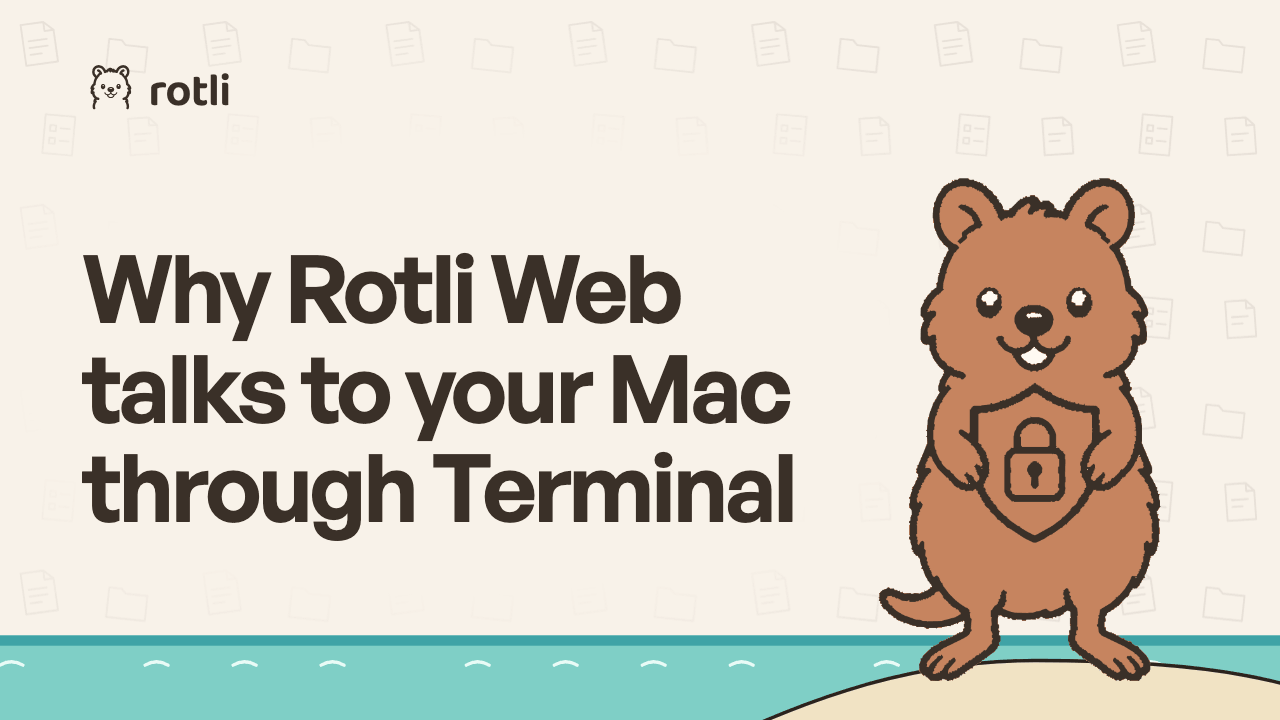
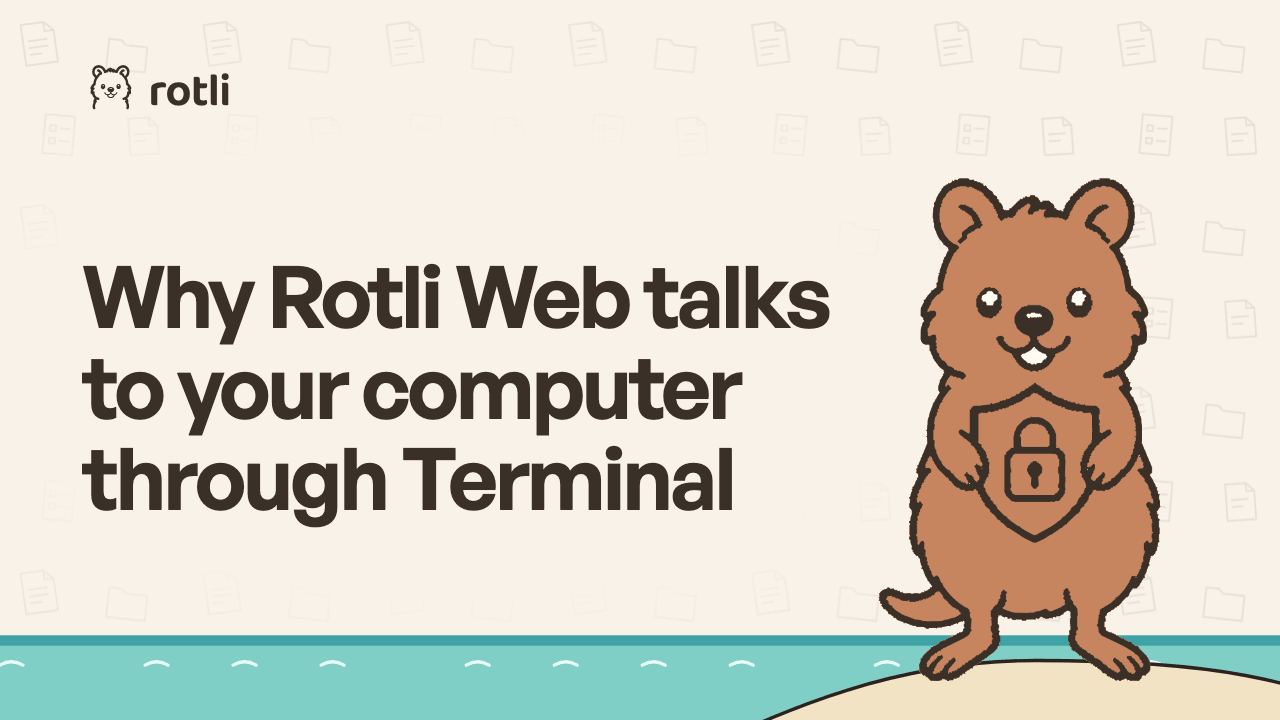
Lead rotli.co with free and Markdown, not the Mac; Windows and Linux are coming soon
The owner read the hero as a Mac notes app. The page now says what rotli is
(a free workspace built on plain Markdown files, notes first, with Docs and
Sheets, chat, and boards in the same folder) and what it costs before it says
where it runs. Windows and Linux move from "Planned" to "Coming soon" on his
call today, through PLATFORMS so every page says it the same way.

Docs and Sheets ship as beta next release, so their status is one constant
(DOCS_AND_SHEETS) rather than "Beta" typed by hand; the Features formats,
FAQ, and llms.txt take it too, and the dev-only experiments list stops
calling them experiments. The before-and-after now says plainly that the
Librarian only fills in the frontmatter and never changes what you wrote.
The ways-in section says "your computer", and the Helper post's title
follows. The home link card and banners are re-rendered for the new line.

Changed region(s): [[0.0625, 0.3361, 0.6562, 0.7639]]

diff --git a/site/src/agents.ts b/site/src/agents.ts
@@ -5,12 +5,11 @@
 // site/Caddyfile answers `Accept: text/markdown` with these twins, and the
 // build (astro.config.mjs) fails if an llms.txt link points at a missing page.
 import { questions } from "./faq";
-import { DOWNLOAD_URL, GITHUB_URL, LICENSE_URL, site } from "./site";
+import { DOCS_AND_SHEETS, DOWNLOAD_URL, GITHUB_URL, LICENSE_URL, PLATFORMS, site } from "./site";
 import { slugOf, type Writing } from "./writing";
 
 const NAME = "rotli";
-const SUMMARY =
-  "rotli is a private workspace for your notes, on the Mac first, with Windows and Linux apps planned. Write however you think, in plain Markdown files you own, with no account. The Librarian files, tags, and links them in the background, using AI on your own computer or the AI tools you already use, and never rewrites your words.";
+const SUMMARY = `rotli is a free workspace built on plain Markdown files you own, with no account. Notes come first; Docs and Sheets (${DOCS_AND_SHEETS.inline}), chat, and Excalidraw boards work from the same folder. The Librarian files, tags, and links notes in the background, using AI on your own computer or the AI tools you already use, and never rewrites your words. ${PLATFORMS.availability}`;
 
 /**
  * AI crawlers named in robots.txt. Each gets its own group so the policy is
@@ -82,8 +81,8 @@ export function llmsText(writing: { resources: Writing[]; posts: Writing[] }): s
     "rotli charges nothing for AI and sells no AI plan: it uses a model on your Mac or the AI tools you already pay for.",
     "No analytics, ads, or crash uploads.",
     site.webAppEnabled
-      ? "Platforms: the Mac app, and Rotli Web in the browser. Chrome, Edge, and Arc open your folder directly; Firefox, Zen, and Brave use Rotli Helper. Safari and phones are not supported yet. Native Windows and Linux apps are planned."
-      : "Platforms: the Mac app. Native Windows and Linux apps are planned.",
+      ? "Platforms: the Mac app, and Rotli Web in the browser. Chrome, Edge, and Arc open your folder directly; Firefox, Zen, and Brave use Rotli Helper. Safari and phones are not supported yet. Native Windows and Linux apps are coming soon."
+      : "Platforms: the Mac app. Native Windows and Linux apps are coming soon.",
   ];
   const lines = [`# ${NAME}`, "", `> ${SUMMARY}`, "", ...facts.map((fact) => `- ${fact}`)];
   if (site.showsFullSite) {
@@ -94,7 +93,7 @@ export function llmsText(writing: { resources: Writing[]; posts: Writing[] }): s
       link(
         "Features",
         "/features/",
-        "the editor, tasks, links, chat, documents and boards, the Librarian, and themes",
+        `the editor, tasks, links, chat, Docs and Sheets (${DOCS_AND_SHEETS.inline}), boards, the Librarian, and themes`,
       ),
       link("Privacy", "/privacy/", "what connects to the internet, what AI can see, and why"),
       link(

diff --git a/site/src/site.ts b/site/src/site.ts
@@ -33,7 +33,7 @@ export const RELEASES_URL = 'https://github.com/SethMed7/rotli-releases/releases
 // The newest notarized DMG, downloaded directly. scripts/release.sh publishes a
 // stable-named copy (Rotli.dmg) on every release, so this never needs editing.
 export const DOWNLOAD_URL = `${RELEASES_URL}/download/Rotli.dmg`;
-/** Where the hero's and closing card's "Download for Mac" buttons go: the
+/** Where the hero's "Download for Mac" button goes: the
  * newest Mac DMG, fetched directly. The header's Download button always opens
  * /download/, which picks by the visitor's system (SiteHeader.astro). */
 export const DOWNLOAD_HREF = DOWNLOAD_URL;
@@ -194,17 +194,32 @@ export const site = {
 } as const;
 
 /**
- * Where rotli runs, said one way everywhere (the owner, 2026-10-05). The
- * promise is a private workspace for your notes, not a Mac app: the Mac comes
- * first, and native Windows and Linux apps are planned, with no date. Pages
- * state availability with these words and never imply the Mac is the only
- * platform rotli will ever have, or that Windows and Linux apps exist today.
+ * Where rotli runs, said one way everywhere (the owner, 2026-10-05, second
+ * call that day). The promise is a free workspace, not a Mac app, so pages
+ * lead with what it is and what it costs and state availability separately:
+ * the Mac app and Rotli Web exist today, and native Windows and Linux apps are
+ * "Coming soon" (this replaces the earlier "Planned"). Never imply the Mac is
+ * the only platform rotli will have, or that Windows or Linux apps exist
+ * today. Sentences about what the Mac app alone does (the on-device model,
+ * the Keychain) stay about the Mac.
  */
 export const PLATFORMS = {
-  /** Beside the hero's ways in. */
+  /** Under the hero's ways in, after what it costs. */
   availability: site.webAppEnabled
-    ? 'Mac first, and in your browser today. Windows and Linux apps are planned.'
-    : 'Mac first. Windows and Linux apps are planned.',
-  /** The status of a platform that is planned but not built. */
-  planned: 'Planned',
+    ? 'In your browser and on the Mac today. Windows and Linux apps are coming soon.'
+    : 'On the Mac today. Windows and Linux apps are coming soon.',
+  /** The status of a platform whose app is not out yet. */
+  soon: 'Coming soon',
+} as const;
+
+/**
+ * Docs (Word, .docx) and Sheets (Excel, .xlsx), both edited with Univer in the
+ * Mac app, ship as beta (the owner, 2026-10-05; Sheets leaves development
+ * builds in the same release, src/lib/featurePolicy.ts). Every page that
+ * names them takes the word from here: `status` as a label, `inline` inside a
+ * sentence. Say no more about them than that they open and edit.
+ */
+export const DOCS_AND_SHEETS = {
+  status: 'Beta',
+  inline: 'beta',
 } as const;

diff --git a/site/src/faq.ts b/site/src/faq.ts
@@ -2,7 +2,7 @@
 // a claim made elsewhere on the site; nothing here may promise more. The
 // landing FAQ renders these, and the same list is the page's FAQPage JSON-LD
 // (src/agents.ts), so what a search engine quotes is what a visitor reads.
-import { site } from './site';
+import { DOCS_AND_SHEETS, site } from './site';
 
 export const questions: { q: string; a: string }[] = [
   {
@@ -29,7 +29,7 @@ export const questions: { q: string; a: string }[] = [
   },
   {
     q: 'Is rotli just a notes app?',
-    a: 'Notes are the foundation. Around them, chat answers from your own notes, the Librarian files and links them, and documents and boards live as ordinary files in the same folder. The Features page says which parts run on the Mac and which in the browser.',
+    a: `Notes are the foundation, as plain Markdown files. Around them, chat answers from your own notes, the Librarian files and links them, and Docs and Sheets (${DOCS_AND_SHEETS.inline}) and boards live as ordinary files in the same folder. The Features page says which parts run on the Mac and which in the browser.`,
   },
   {
     q: 'Can I leave?',
@@ -38,7 +38,7 @@ export const questions: { q: string; a: string }[] = [
   {
     q: 'What about Windows and Linux?',
     a: site.webAppEnabled
-      ? 'Use Rotli Web in your browser today. Native Windows and Linux apps are planned.'
-      : 'Native Windows and Linux apps are planned.',
+      ? 'Native Windows and Linux apps are coming soon. Until then, Rotli Web works in your browser today.'
+      : 'Native Windows and Linux apps are coming soon.',
   },
 ];

diff --git a/site/src/og.ts b/site/src/og.ts
@@ -32,7 +32,7 @@ export interface OgCard {
 export const OG_CARDS = {
   home: {
     title: 'Write like a person. Let AI do the filing.',
-    line: 'A private workspace for your notes, in plain Markdown files you own.',
+    line: 'A free workspace built on plain Markdown files you own.',
     pose: 'waving',
   },
   features: {

diff --git a/site/src/content/writing/posts/rotli-web-and-your-mac.md b/site/src/content/writing/posts/rotli-web-and-your-mac.md
@@ -1,5 +1,5 @@
 ---
-title: Why Rotli Web talks to your Mac through Terminal
+title: Why Rotli Web talks to your computer through Terminal
 description: Rotli Web keeps your notes in a folder on your computer, not on a server. How Rotli Helper makes that work, what its one-line install does, and what it can and can't reach.
 section: post
 date: 2026-10-02
